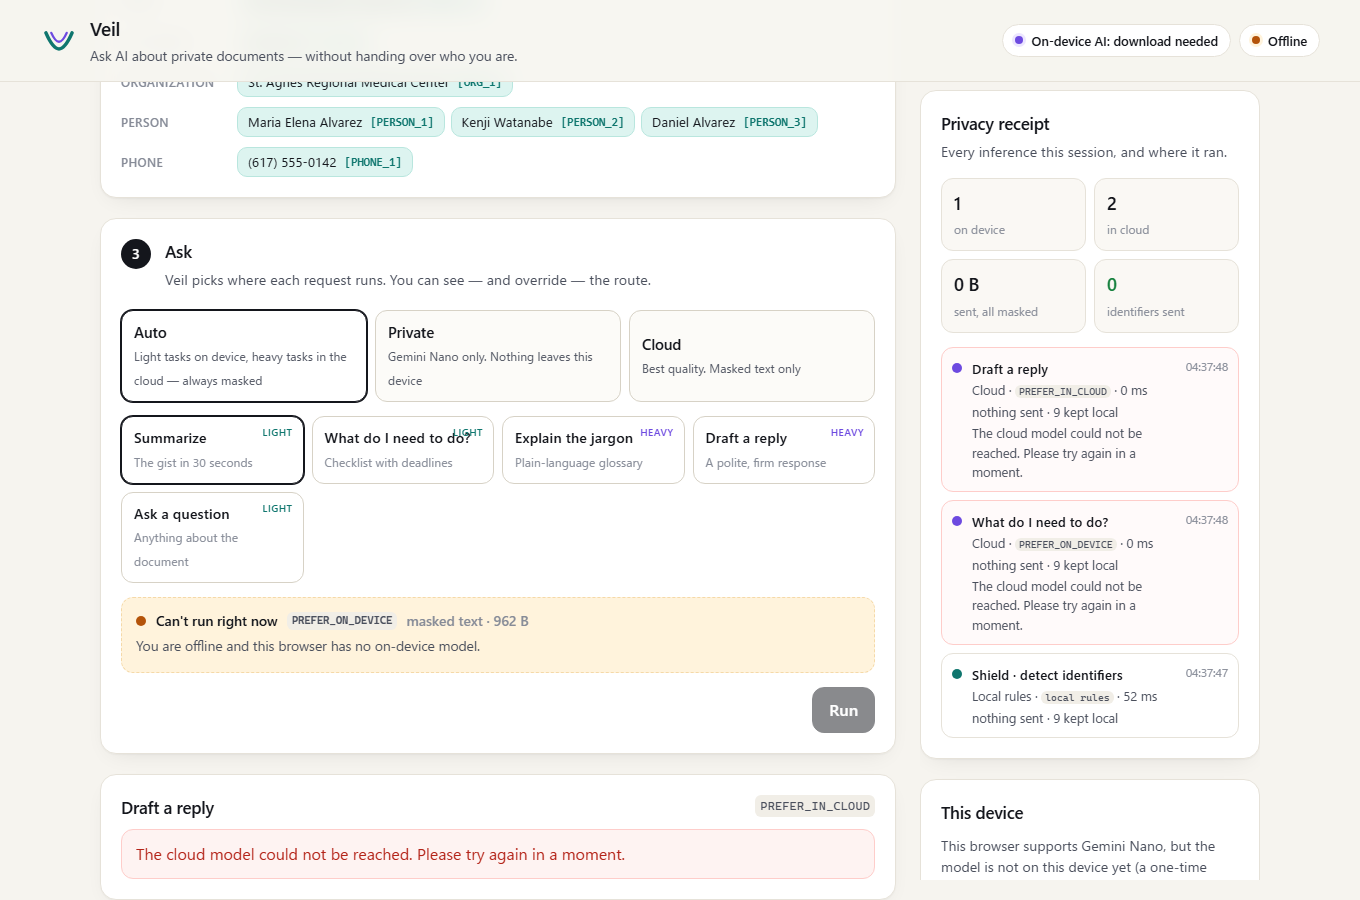
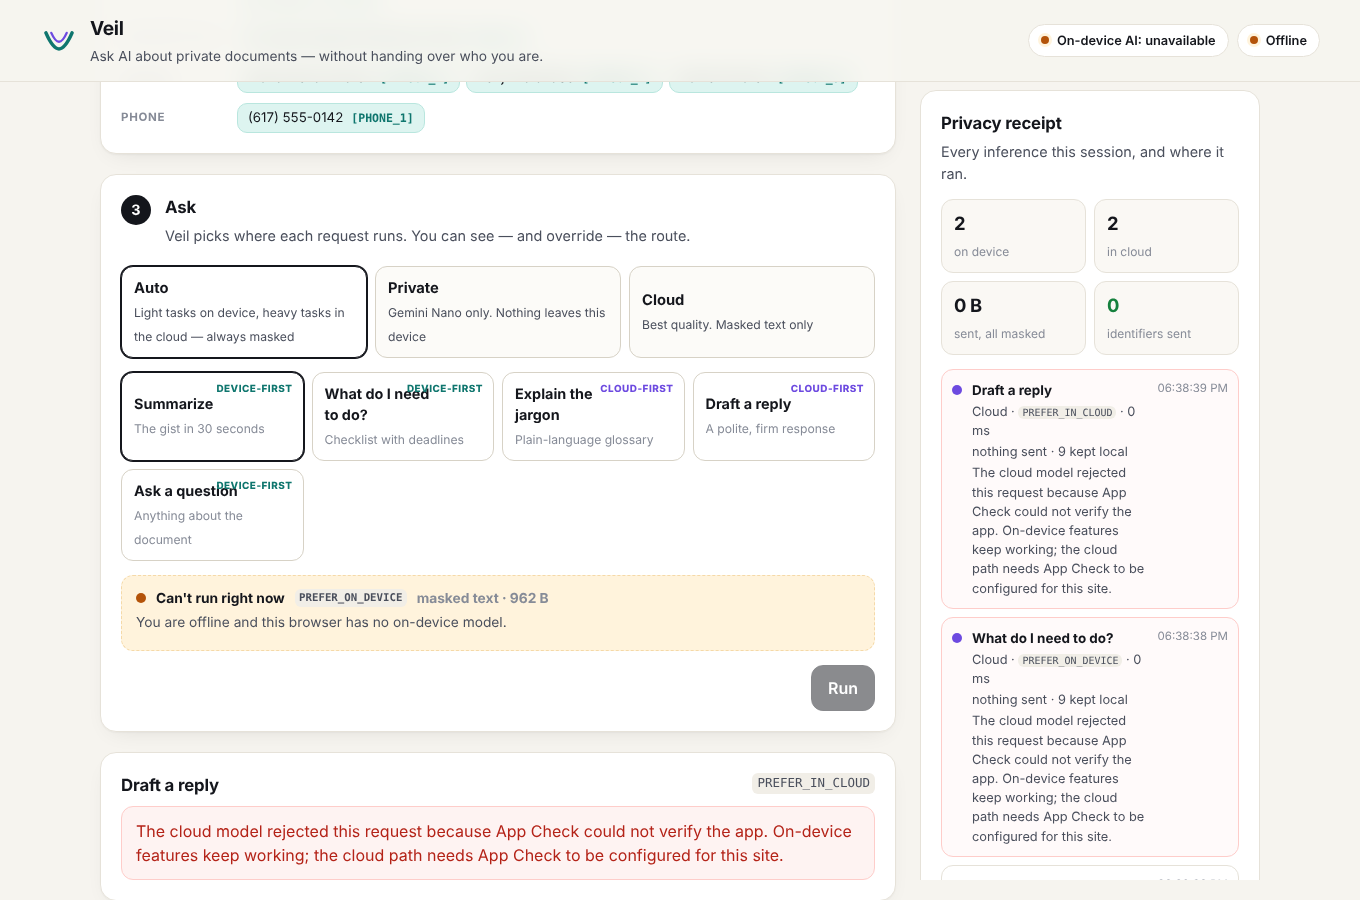
Routing policy from Firebase Remote Config (task split, cloud model, Nano length limit, cloud switch) + e2e
Claude-Session: https://claude.ai/code/session_017QXgHKigaCmeaCJUVx5VV2

diff --git a/src/main.ts b/src/main.ts
@@ -14,8 +14,9 @@ import {
   type Source,
 } from './ai';
 import { addDoc, createCase, deleteCase, joinCase, loadCases, removeDoc, setReleased, type CaseFolder } from './cases';
-import { ASSISTANT_SYSTEM, buildPrompt, CASE_ONLY, route, TASKS, TRIAGE_SCHEMA, TRIAGE_SYSTEM, type Policy, type Task } from './router';
+import { ASSISTANT_SYSTEM, buildPrompt, CASE_ONLY, route, TASKS, weightOf, TRIAGE_SCHEMA, TRIAGE_SYSTEM, type Policy, type Task } from './router';
 import { CASE_DEMO, SAMPLES } from './samples';
+import { loadRouting, routing } from './config';
 import { renderLetterImage } from './letter';
 import { ACCEPTED_IMAGE, prepareImage, transcribe, type PreparedImage } from './scan';
 import { applyMask, buildEntities, bytes } from './shield/mask';
@@ -149,7 +150,7 @@ app.innerHTML = `
         <button type="button" role="radio" data-policy="cloud"><b>Cloud</b><span>Best quality. Masked text only</span></button>
       </div>
       <div class="tasks" id="tasks">
-        ${TASKS.map((t) => `<button type="button" class="task" data-task="${t.id}"><b>${esc(t.label)}</b><span>${esc(t.hint)}</span><em class="w-${t.weight}">${t.weight}</em></button>`).join('')}
+        ${TASKS.map((t) => `<button type="button" class="task" data-task="${t.id}"><b>${esc(t.label)}</b><span>${esc(t.hint)}</span><em class="w-${t.weight}">${t.weight === 'heavy' ? 'cloud' : 'device'}</em></button>`).join('')}
       </div>
       <input type="text" id="question" placeholder="e.g. Can I still take ibuprofen with these medicines?" hidden />
       <div class="route" id="route"></div>
@@ -172,6 +173,7 @@ app.innerHTML = `
       <ol class="ledger" id="ledger"></ol>
     </article>
     <article class="card" id="card-device"></article>
+    <article class="card" id="card-routing"></article>
   </aside>
 </main>
 
@@ -336,6 +338,12 @@ function renderAsk() {
   const multi = !!state.caseOpen;
   document.querySelectorAll<HTMLButtonElement>('[data-task]').forEach((b) => (b.hidden = !multi && CASE_ONLY.includes(b.dataset.task as Task['id'])));
   if (!multi && CASE_ONLY.includes(state.task.id)) state.task = TASKS[0];
+  document.querySelectorAll<HTMLButtonElement>('[data-task]').forEach((b) => {
+    const w = weightOf(TASKS.find((t) => t.id === b.dataset.task)!);
+    const em = b.querySelector('em')!;
+    em.className = `w-${w}`;
+    em.textContent = w === 'heavy' ? 'cloud' : 'device';
+  });
   questionEl.hidden = state.task.id !== 'ask';
   const r = currentRoute();
   const dest =
@@ -472,7 +480,29 @@ function renderCase() {
   el.classList.toggle('active', !!c);
 }
 
+function renderRouting() {
+  const c = routing;
+  const tasks = TASKS.filter((t) => !CASE_ONLY.includes(t.id) || state.caseOpen);
+  const from =
+    c.status === 'loading'
+      ? '<span class="spinner"></span> Loading from Firebase Remote Config…'
+      : c.source === 'remote'
+        ? `Live policy from <b>Firebase Remote Config</b>${c.fetchedAt ? ` · updated ${new Date(c.fetchedAt).toLocaleTimeString([], { hour: '2-digit', minute: '2-digit' })}` : ''}${c.status === 'offline' ? ' · offline, last saved copy' : ''}`
+        : `Built-in policy${c.status === 'error' || c.status === 'offline' ? ' (Remote Config not reachable)' : ' · no override published in Remote Config'}`;
+  $('#card-routing').innerHTML = `<header class="card-h compact"><div><h2>Routing policy</h2><p>${from}</p></div></header>
+    ${c.notice ? `<p class="notice">${esc(c.notice)}</p>` : ''}
+    <dl class="kv">
+      <dt>Cloud path</dt><dd>${c.cloudEnabled ? 'on' : '<b class="warn-t">paused: everything stays on this device</b>'}</dd>
+      <dt>Cloud model</dt><dd><code>${esc(c.cloudModel)}</code> · temp ${c.cloudTemperature}</dd>
+      <dt>Device-first</dt><dd>${tasks.filter((t) => weightOf(t) === 'light').map((t) => esc(t.label)).join(', ') || '—'}</dd>
+      <dt>Cloud-first</dt><dd>${tasks.filter((t) => weightOf(t) === 'heavy').map((t) => esc(t.label)).join(', ') || '—'}</dd>
+      <dt>Nano length limit</dt><dd>${c.deviceCharBudget.toLocaleString()} characters</dd>
+    </dl>
+    <p class="muted small">Changes reach every user without a new build. None of them can send raw text off the device: only <code>ONLY_ON_DEVICE</code> ever sees it.</p>`;
+}
+
 function renderAll() {
+  renderRouting();
   renderScan();
   renderStatus();
   renderReview();
@@ -869,6 +899,10 @@ window.addEventListener('offline', onNet);
 
 renderAll();
 void refreshDevice();
+void loadRouting(() => {
+  renderRouting();
+  renderAsk();
+});
 // Chrome may finish a background download while the page is open.
 setInterval(() => {
   if (state.device === 'downloadable' || state.device === 'downloading') void refreshDevice();
@@ -879,4 +913,4 @@ if ('serviceWorker' in navigator && import.meta.env.PROD) {
 }
 
 // Exposed for automated tests only (no user data is reachable through it beyond what is on screen).
-(window as unknown as { __veil: unknown }).__veil = { state, buildEntities };
+(window as unknown as { __veil: unknown }).__veil = { state, buildEntities, routing: () => routing };

diff --git a/src/config.ts b/src/config.ts
@@ -1,0 +1,117 @@
+import { ensureInitialized, fetchAndActivate, getRemoteConfig, getValue, type RemoteConfig } from 'firebase/remote-config';
+import { firebaseApp } from './firebase';
+
+/**
+ * The routing policy lives in Firebase Remote Config, so it can be tuned for everyone
+ * without shipping a new build: which tasks prefer the cloud, which cloud model to use,
+ * how long a document Gemini Nano is trusted with, and an emergency switch that keeps
+ * every request on the device (for example when the free cloud quota runs out).
+ *
+ * The defaults below are the policy the app ships with. If Remote Config cannot be
+ * reached (offline, blocked, no template published), these are used unchanged.
+ * None of these values can weaken the privacy invariant: raw text is only ever given
+ * to an ONLY_ON_DEVICE model, and the router enforces that regardless of config.
+ */
+export const DEFAULTS = {
+  /** Gemini model used for the cloud side of hybrid requests. */
+  cloud_model: 'gemini-3.5-flash-lite',
+  cloud_temperature: 0.3,
+  /** Documents longer than this (characters, after masking) skip Nano and prefer the cloud. */
+  device_char_budget: 20000,
+  /** Comma-separated task ids that prefer the cloud in Auto mode. The rest prefer the device. */
+  cloud_preferred_tasks: 'explain,reply,connect',
+  /** false = cloud switched off: Auto keeps everything on the device, Cloud mode is unavailable. */
+  cloud_enabled: true,
+  /** Short note shown next to the routing card when set (e.g. "Cloud paused for maintenance"). */
+  routing_notice: '',
+};
+
+export interface RoutingConfig {
+  cloudModel: string;
+  cloudTemperature: number;
+  deviceCharBudget: number;
+  cloudPreferred: Set<string>;
+  cloudEnabled: boolean;
+  notice: string;
+  /** 'remote' when at least one value came from a published template. */
+  source: 'remote' | 'default';
+  status: 'loading' | 'fetched' | 'cached' | 'offline' | 'error';
+  fetchedAt?: number;
+}
+
+const KNOWN_TASKS = new Set(['summary', 'actions', 'explain', 'reply', 'ask', 'connect']);
+
+function fromDefaults(): RoutingConfig {
+  return {
+    cloudModel: DEFAULTS.cloud_model,
+    cloudTemperature: DEFAULTS.cloud_temperature,
+    deviceCharBudget: DEFAULTS.device_char_budget,
+    cloudPreferred: new Set(DEFAULTS.cloud_preferred_tasks.split(',')),
+    cloudEnabled: DEFAULTS.cloud_enabled,
+    notice: DEFAULTS.routing_notice,
+    source: 'default',
+    status: 'loading',
+  };
+}
+
+export let routing: RoutingConfig = fromDefaults();
+
+const clamp = (n: number, lo: number, hi: number, fallback: number) => (Number.isFinite(n) ? Math.min(hi, Math.max(lo, n)) : fallback);
+
+function read(rc: RemoteConfig, status: RoutingConfig['status']): RoutingConfig {
+  const keys = Object.keys(DEFAULTS) as (keyof typeof DEFAULTS)[];
+  const remote = keys.some((k) => getValue(rc, k).getSource() === 'remote');
+  const model = getValue(rc, 'cloud_model').asString().trim();
+  const tasks = getValue(rc, 'cloud_preferred_tasks')
+    .asString()
+    .split(',')
+    .map((s) => s.trim())
+    .filter((s) => KNOWN_TASKS.has(s));
+  return {
+    // Only Gemini models are accepted; anything else falls back to the shipped model.
+    cloudModel: /^gemini-[\w.-]+$/.test(model) ? model : DEFAULTS.cloud_model,
+    cloudTemperature: clamp(getValue(rc, 'cloud_temperature').asNumber(), 0, 1, DEFAULTS.cloud_temperature),
+    deviceCharBudget: clamp(getValue(rc, 'device_char_budget').asNumber(), 2000, 30000, DEFAULTS.device_char_budget),
+    cloudPreferred: new Set(tasks),
+    cloudEnabled: getValue(rc, 'cloud_enabled').asBoolean(),
+    notice: getValue(rc, 'routing_notice').asString().slice(0, 200),
+    source: remote ? 'remote' : 'default',
+    status,
+    fetchedAt: rc.fetchTimeMillis > 0 ? rc.fetchTimeMillis : undefined,
+  };
+}
+
+/** Fetch and activate the routing policy. Never throws; calls onChange with whatever is in effect. */
+export async function loadRouting(onChange: (c: RoutingConfig) => void): Promise<void> {
+  let rc: RemoteConfig;
+  try {
+    rc = getRemoteConfig(firebaseApp);
+    rc.settings.minimumFetchIntervalMillis = import.meta.env.DEV ? 60_000 : 30 * 60_000;
+    rc.settings.fetchTimeoutMillis = 8000;
+    rc.defaultConfig = { ...DEFAULTS };
+  } catch {
+    routing = { ...routing, status: 'error' };
+    onChange(routing);
+    return;
+  }
+  // A previously activated template (IndexedDB) is usable at once, even offline.
+  try {
+    await ensureInitialized(rc);
+  } catch {
+    /* storage unavailable: defaults */
+  }
+  routing = read(rc, rc.lastFetchStatus === 'success' ? 'cached' : 'loading');
+  onChange(routing);
+  if (!navigator.onLine) {
+    routing = { ...routing, status: 'offline' };
+    onChange(routing);
+    return;
+  }
+  try {
+    await fetchAndActivate(rc);
+    routing = read(rc, 'fetched');
+  } catch {
+    routing = { ...read(rc, 'error') };
+  }
+  onChange(routing);
+}

diff --git a/src/router.ts b/src/router.ts
@@ -1,6 +1,7 @@
 import { Schema } from 'firebase/ai';
 import { InferenceMode, type DeviceState, type Mode } from './ai';
 import { DOC_MARK } from './cases';
+import { routing } from './config';
 
 export type Policy = 'auto' | 'private' | 'cloud';
 
@@ -94,7 +95,10 @@ export interface Route {
   blockedReason?: string;
 }
 
-const TOKEN_BUDGET_CHARS = 20000; // ~5k tokens of document, leaves room in Nano's 9,216-token window
+/** Light or heavy, as set by the routing policy in Remote Config (falls back to the shipped default). */
+export function weightOf(task: Task): Task['weight'] {
+  return routing.cloudPreferred.has(task.id) ? 'heavy' : 'light';
+}
 
 export function route(task: Task, policy: Policy, device: DeviceState, online: boolean, docChars: number): Route {
   const deviceReady = device === 'available';
@@ -108,6 +112,15 @@ export function route(task: Task, policy: Policy, device: DeviceState, online: b
     };
   }
   if (policy === 'cloud') {
+    if (!routing.cloudEnabled) {
+      return {
+        mode: InferenceMode.ONLY_IN_CLOUD,
+        raw: false,
+        why: 'Cloud mode is paused by the operator (Remote Config).',
+        expected: 'blocked',
+        blockedReason: 'The cloud path is switched off right now. Use Auto or Private to run on this device.',
+      };
+    }
     return {
       mode: InferenceMode.ONLY_IN_CLOUD,
       raw: false,
@@ -116,9 +129,21 @@ export function route(task: Task, policy: Policy, device: DeviceState, online: b
       blockedReason: online ? undefined : 'You are offline. Cloud mode needs a connection.',
     };
   }
+  if (!routing.cloudEnabled) {
+    // Operator switch (Remote Config): keep every request on the device. Still masked text,
+    // so nothing changes for the privacy invariant; only the cloud fallback is removed.
+    return {
+      mode: InferenceMode.ONLY_ON_DEVICE,
+      raw: false,
+      why: 'The cloud path is paused (Remote Config), so this runs on Gemini Nano only, with the masked text.',
+      expected: deviceReady ? 'device' : 'blocked',
+      blockedReason: deviceReady ? undefined : 'The cloud path is paused right now and this browser has no on-device model.',
+    };
+  }
   // Auto: light tasks prefer the device, heavy or very long ones prefer the cloud.
-  const tooLong = docChars > TOKEN_BUDGET_CHARS;
-  if (task.weight === 'light' && !tooLong) {
+  // Both the task split and the length budget come from Remote Config (see config.ts).
+  const tooLong = docChars > routing.deviceCharBudget;
+  if (weightOf(task) === 'light' && !tooLong) {
     const expected = deviceReady ? 'device' : online ? 'cloud' : 'blocked';
     return {
       mode: InferenceMode.PREFER_ON_DEVICE,

diff --git a/src/ai.ts b/src/ai.ts
@@ -8,6 +8,7 @@ import {
   type LanguageModelCreateOptions,
 } from 'firebase/ai';
 import { ai } from './firebase';
+import { routing } from './config';
 
 export { InferenceMode, InferenceSource };
 export type Mode = (typeof InferenceMode)[keyof typeof InferenceMode];
@@ -132,17 +133,17 @@ interface ModelOpts {
 const cache = new Map<string, GenerativeModel>();
 
 export function model(mode: Mode, opts: ModelOpts): GenerativeModel {
-  const key = JSON.stringify([mode, opts.system, !!opts.schema, opts.maxOutputTokens]);
+  const key = JSON.stringify([mode, opts.system, !!opts.schema, opts.maxOutputTokens, routing.cloudModel, routing.cloudTemperature]);
   const hit = cache.get(key);
   if (hit) return hit;
   const m = getGenerativeModel(ai, {
     mode,
     inCloudParams: {
-      // Default hybrid cloud model; listed explicitly so the README and the UI agree.
-      model: 'gemini-3.5-flash-lite',
+      // Cloud model and temperature come from Remote Config (default gemini-3.5-flash-lite).
+      model: routing.cloudModel,
       systemInstruction: opts.system,
       generationConfig: {
-        temperature: 0.3,
+        temperature: routing.cloudTemperature,
         maxOutputTokens: opts.maxOutputTokens ?? 1200,
         ...(opts.schema ? { responseMimeType: 'application/json', responseSchema: opts.schema } : {}),
       },

diff --git a/src/style.css b/src/style.css
@@ -268,3 +268,9 @@ textarea:focus { outline: 2px solid var(--device); border-color: transparent; }
 .case-doc .chip { max-width: 22em; overflow: hidden; text-overflow: ellipsis; white-space: nowrap; }
 .case-doc .x { border: 0; background: none; color: var(--ink-2); font-size: 1rem; padding: 0 6px; cursor: pointer; }
 .case-actions { display: flex; flex-wrap: wrap; gap: 8px; }
+
+/* Routing policy (Remote Config) */
+#card-routing .kv { display: grid; grid-template-columns: auto 1fr; gap: 6px 12px; margin: 0 0 10px; font-size: 0.86rem; }
+#card-routing dt { color: var(--ink-3); }
+#card-routing dd { margin: 0; color: var(--ink-2); }
+#card-routing .notice { background: var(--warn-bg); border: 1px solid #f5d9a8; border-radius: 10px; padding: 8px 10px; font-size: 0.86rem; }

diff --git a/README.md b/README.md
@@ -51,6 +51,7 @@ flowchart LR
 | Long documents (over ~20k chars) | `PREFER_IN_CLOUD` | masked | beyond the on-device context window |
 | Private mode | `ONLY_ON_DEVICE` | raw | nothing leaves the device |
 | Cloud mode | `ONLY_IN_CLOUD` | masked | best quality on demand |
+| Cloud paused (Remote Config `cloud_enabled=false`) | `ONLY_ON_DEVICE` | masked | operator switch; no cloud fallback |
 
 Implementation notes:
 
@@ -60,7 +61,7 @@ Implementation notes:
 - Surnames of detected people are masked everywhere ("Ms. Alvarez" shares `[PERSON_1]` with "Maria Elena Alvarez").
 - A small service worker keeps the app shell available offline. Model calls are never cached.
 
-Code map: `src/ai.ts` (capability check, model factory, streaming, errors) · `src/router.ts` (tasks and the routing policy) · `src/shield/` (rules, Nano detector, masking and restore) · `src/main.ts` (UI).
+Code map: `src/config.ts` (routing policy from Remote Config) · `src/ai.ts` (capability check, model factory, streaming, errors) · `src/router.ts` (tasks and the routing policy) · `src/shield/` (rules, Nano detector, masking and restore) · `src/main.ts` (UI).
 
 ## Built during the submission period (from Nov 11, 2026 PT)
 
@@ -68,6 +69,7 @@ Veil's first version (shield, mask, hybrid routing, privacy receipt) went live o
 
 - **Scan a paper letter (Nov 13).** Take or upload a photo of a letter; Gemini Nano's image input reads it on the device and fills the document box. The image model is created with `ONLY_ON_DEVICE` and no cloud parameters, so a photo can never fall back to the cloud: on a device without image input Veil says so and sends nothing. Tall pages are cut into overlapping bands to keep small print legible, and the band texts are joined without duplicated lines. "Try a scanned letter" renders a sample letter as a photo in the browser so the feature can be tried without a camera.
 - **Case folders (Nov 14).** Real problems come in several letters: the discharge note, the hospital bill, the insurer's explanation of benefits. A case folder keeps related documents together in this browser (localStorage, never uploaded). "Open the whole case" shields every document together, so one person gets one placeholder across all of them — even when the insurer writes "Maria E. Alvarez" and the hospital writes "Maria Elena Alvarez" — and values you chose to release stay released for that case. A new task, **Connect the case**, builds one timeline across the documents with "Document k" citations and lists what does not add up (in the sample: the bill asks for the ambulance charge the insurer denied for missing paperwork). Try it with the "Case folder" sample button.
+- **Routing policy in Firebase Remote Config (Nov 14).** Which tasks prefer the device and which prefer the cloud, the cloud model and temperature, the length limit for Gemini Nano, and an emergency switch that keeps every request on the device (say, when the free cloud quota runs out) now come from Remote Config, with the shipped policy as in-app defaults. A "Routing policy" card shows what is in effect and where it came from, and each task is tagged *device* or *cloud* from the live policy. No value can weaken the privacy invariant: raw text still only reaches an `ONLY_ON_DEVICE` model, and with the cloud switched off Auto runs `ONLY_ON_DEVICE` on the masked text. Parameters: `cloud_preferred_tasks`, `cloud_model`, `cloud_temperature`, `device_char_budget`, `cloud_enabled`, `routing_notice` (see `src/config.ts`).
 - **Tests run in real Chrome.** reCAPTCHA Enterprise (App Check) rejects the bundled headless Chromium, so the end-to-end check now uses the installed Chrome. 19/19 checks pass on the public URL, including two new ones for Scan (reads on device; no request reaches Google while scanning, with or without Nano).
 
 ## Run it locally
@@ -94,6 +96,7 @@ To use Gemini Nano: desktop Chrome 139+, enable `chrome://flags/#prompt-api-for-
 - **Cloud path (no Nano):** shields the sample, calls Gemini, and checks that **no raw identifier appears in any request body sent to Google**.
 - **Device path:** stubs Chrome's Prompt API (`LanguageModel`) and checks that `PREFER_ON_DEVICE` requests report `inferenceSource === "on_device"` and that **zero requests reach Google**.
 - **Offline:** without Nano, runs are blocked with an explanation. With Nano, Private mode runs `ONLY_ON_DEVICE`.
+- **Remote Config:** with a stubbed template (cloud off, Summarize moved to the cloud side), the new policy applies without a rebuild, Cloud mode is blocked and Auto runs `ONLY_ON_DEVICE` with zero requests to the model endpoint.
 
 ## Limitations
 
